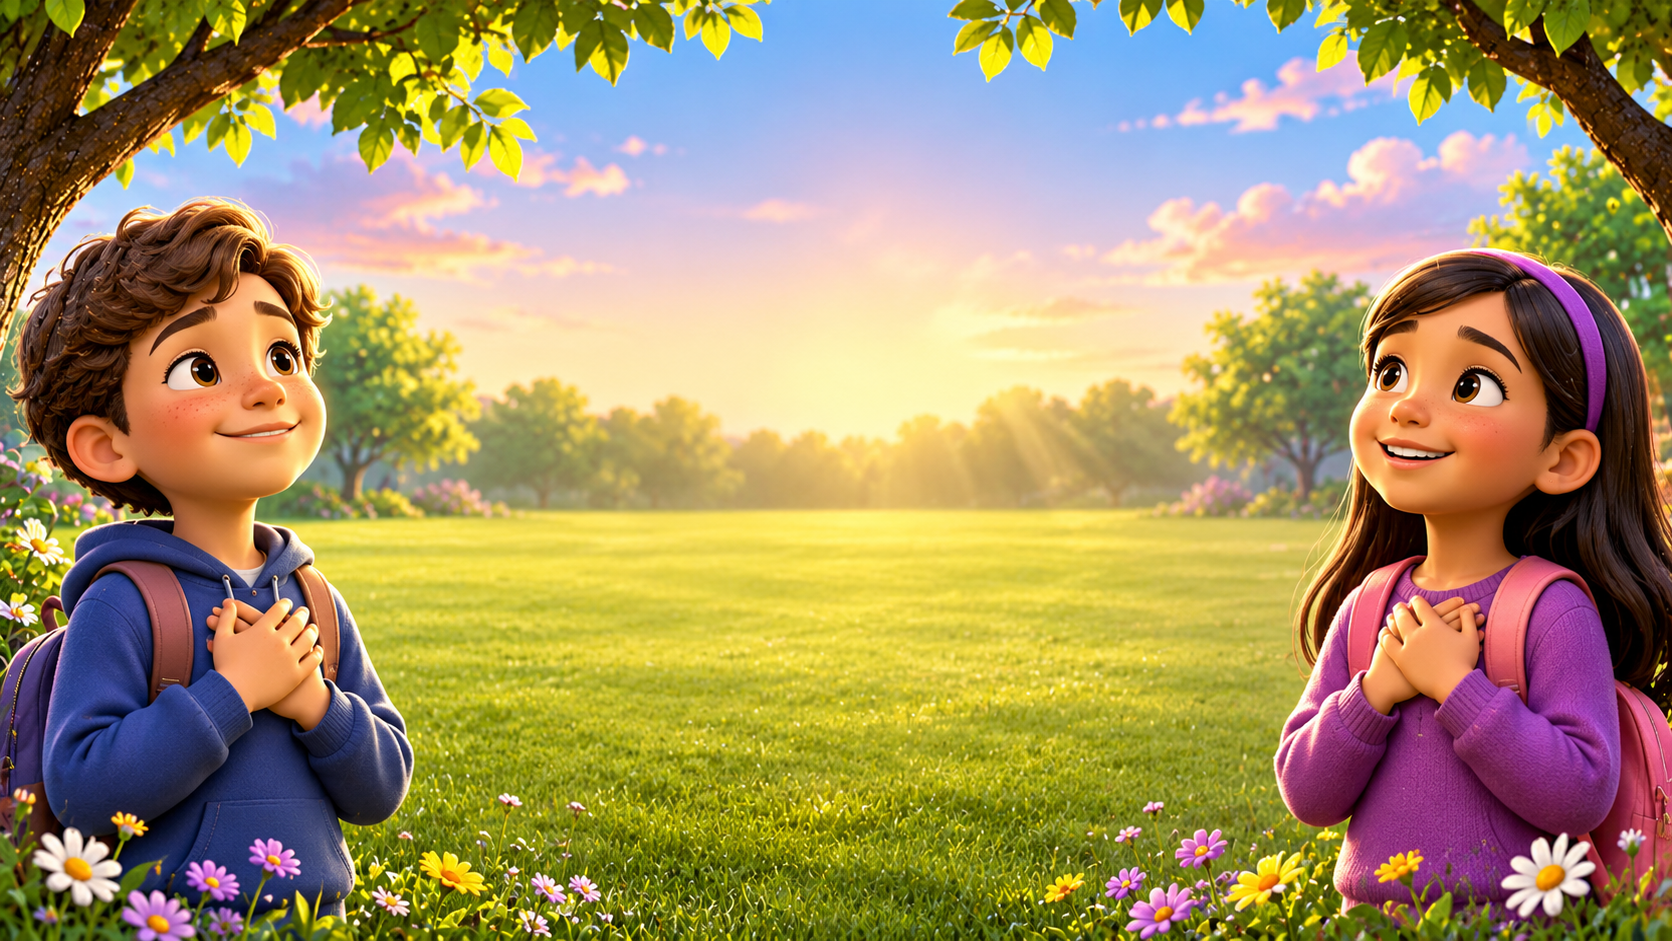
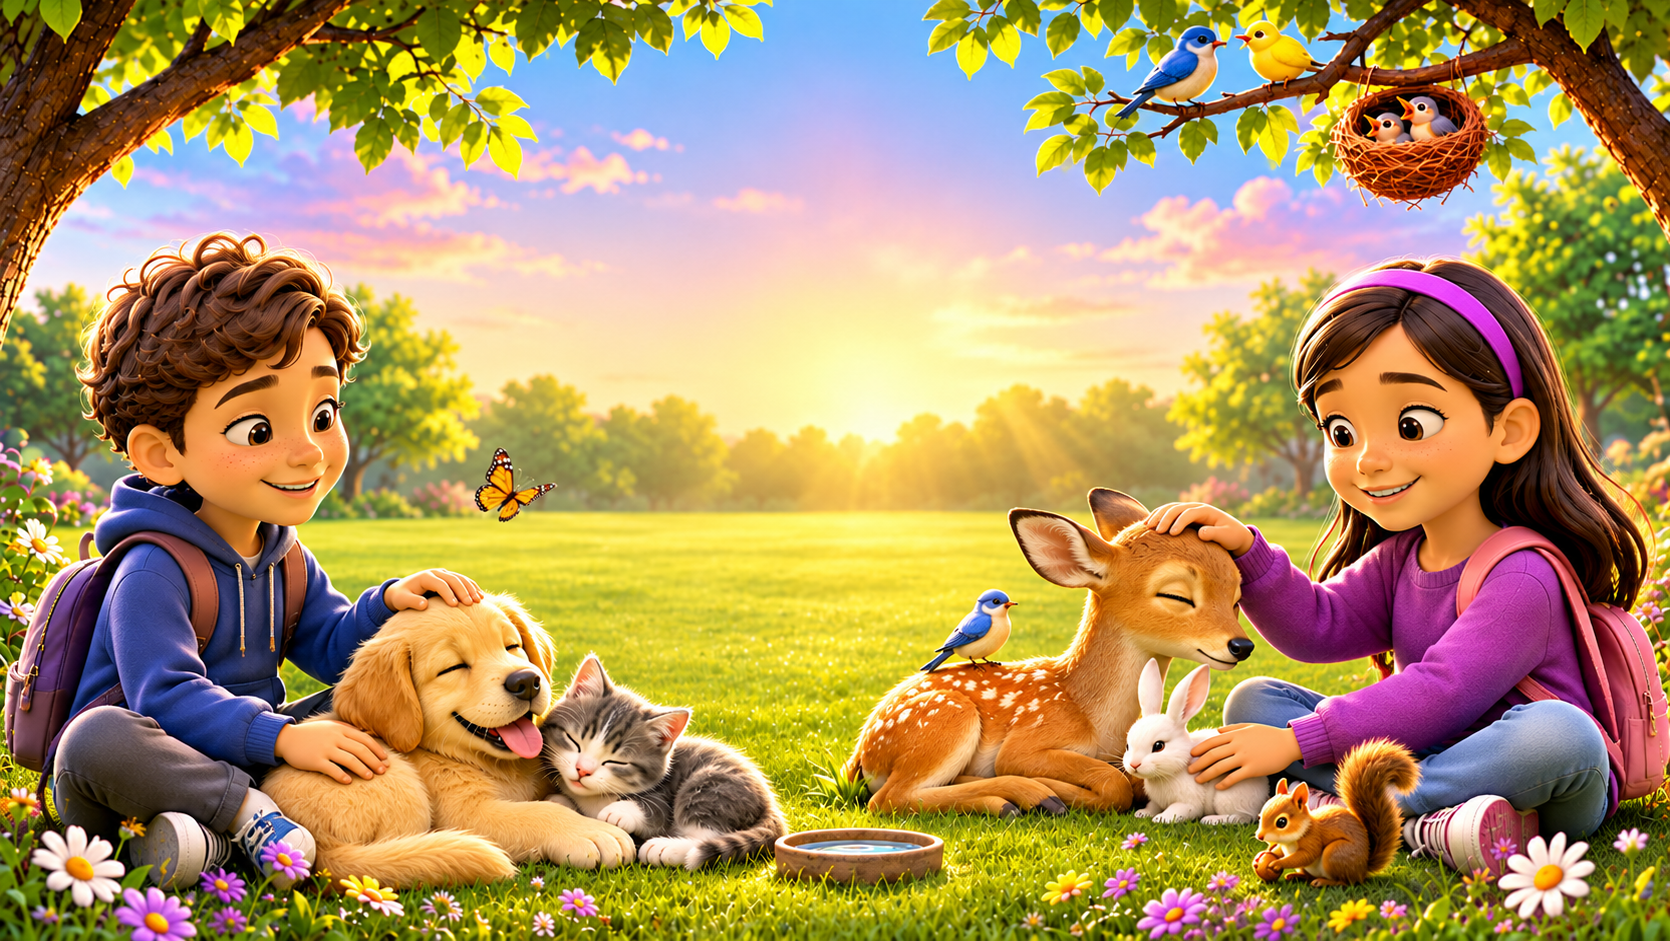
Refresh Smiling Children, scene_welcome, and scene_six_voices images; center Slide 21 role-play badge and headline

diff --git a/styles.css b/styles.css
@@ -1848,6 +1848,10 @@ html, body {
    Slide 21 Ending Chorus Grand Layout
    ========================================================================== */
 .chorus-grand-glass-card {
+  display: flex;
+  flex-direction: column;
+  align-items: center;
+  justify-content: center;
   pointer-events: auto;
   align-self: center;
   margin: auto;
@@ -1864,13 +1868,20 @@ html, body {
   animation: zoomFadeIn 0.6s var(--ease-cinematic) both;
 }
 
+.chorus-grand-glass-card .speaker-badge-pill {
+  align-self: center;
+  margin: 0 auto 10px auto;
+}
+
 .chorus-headline {
+  width: 100%;
   font-family: var(--font-display);
   font-size: 2.8rem;
   font-weight: 800;
   color: #ffffff;
   text-shadow: 0 3px 12px rgba(0, 0, 0, 0.7);
-  margin: 10px 0 4px;
+  margin: 4px auto 6px auto;
+  text-align: center;
 }
 
 .chorus-sub-prompt {

diff --git a/index.html b/index.html
@@ -818,7 +818,9 @@
                 <span class="pill-item-tag">ITEM 03 • ROLE PLAY GRAND FINALE</span>
                 <span class="pill-speaker-name">ALL (TOGETHER)</span>
               </div>
-              <h2 class="chorus-headline animated-gradient-sussex-gold">Stand for What Is Right</h2>
+              <h2 class="chorus-headline">
+                <span class="animated-gradient-sussex-gold">Stand for What Is Right</span>
+              </h2>
               <p class="chorus-sub-prompt">The Grade 4 Role Play Collective Chorus</p>
 
               <div class="chorus-pledge-grid">
